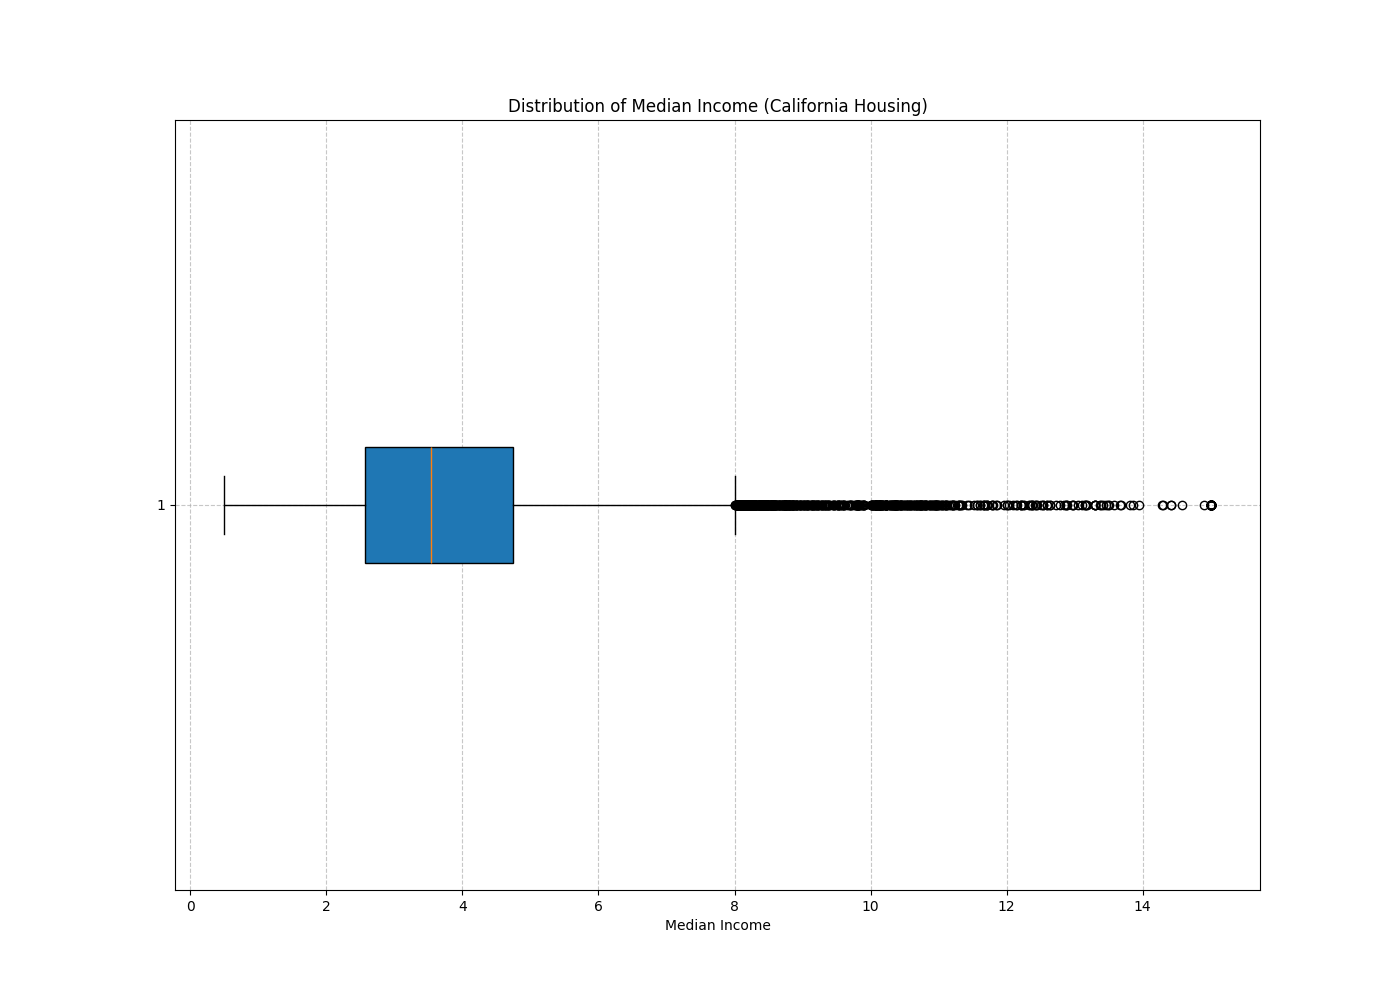
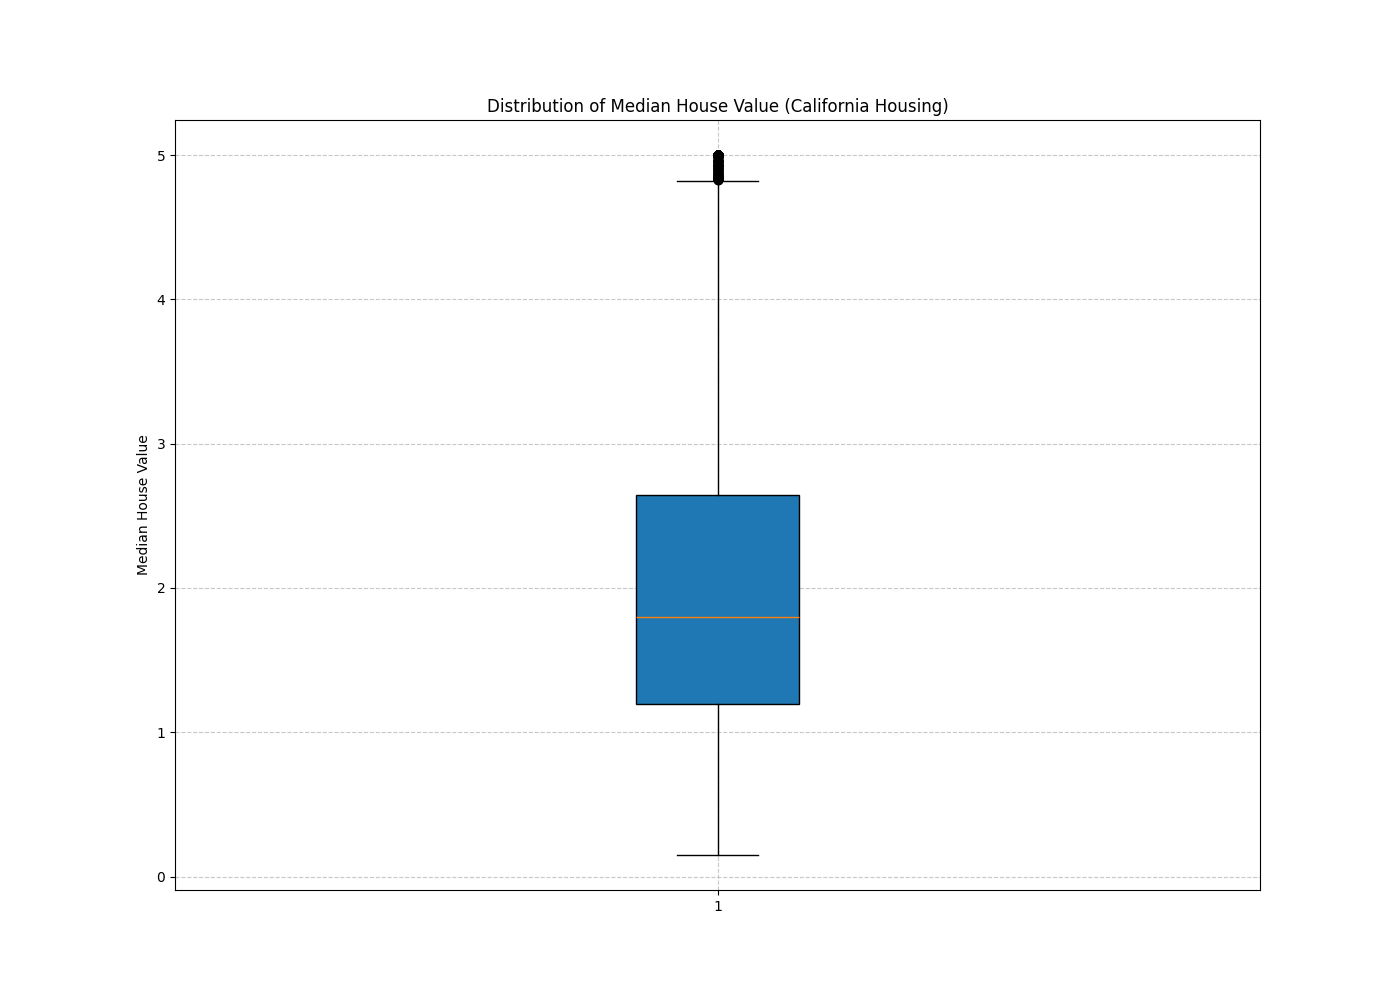
Updated code for median house value

diff --git a/src/boxplot.py b/src/boxplot.py
@@ -16,9 +16,9 @@ print(df.shape)
 
 # Create a boxplot for Median Income
 plt.figure(figsize=(14, 10))
-plt.boxplot(df['MedInc'], vert=False, patch_artist=True)
-plt.title('Distribution of Median Income (California Housing)')
-plt.xlabel('Median Income')
+plt.boxplot(df['MedHouseVal'], vert=True, patch_artist=True)
+plt.title('Distribution of Median House Value (California Housing)')
+plt.ylabel('Median House Value')
 plt.grid(True, linestyle='--', alpha=0.7)
 
 # Save the boxplot to the figs folder
